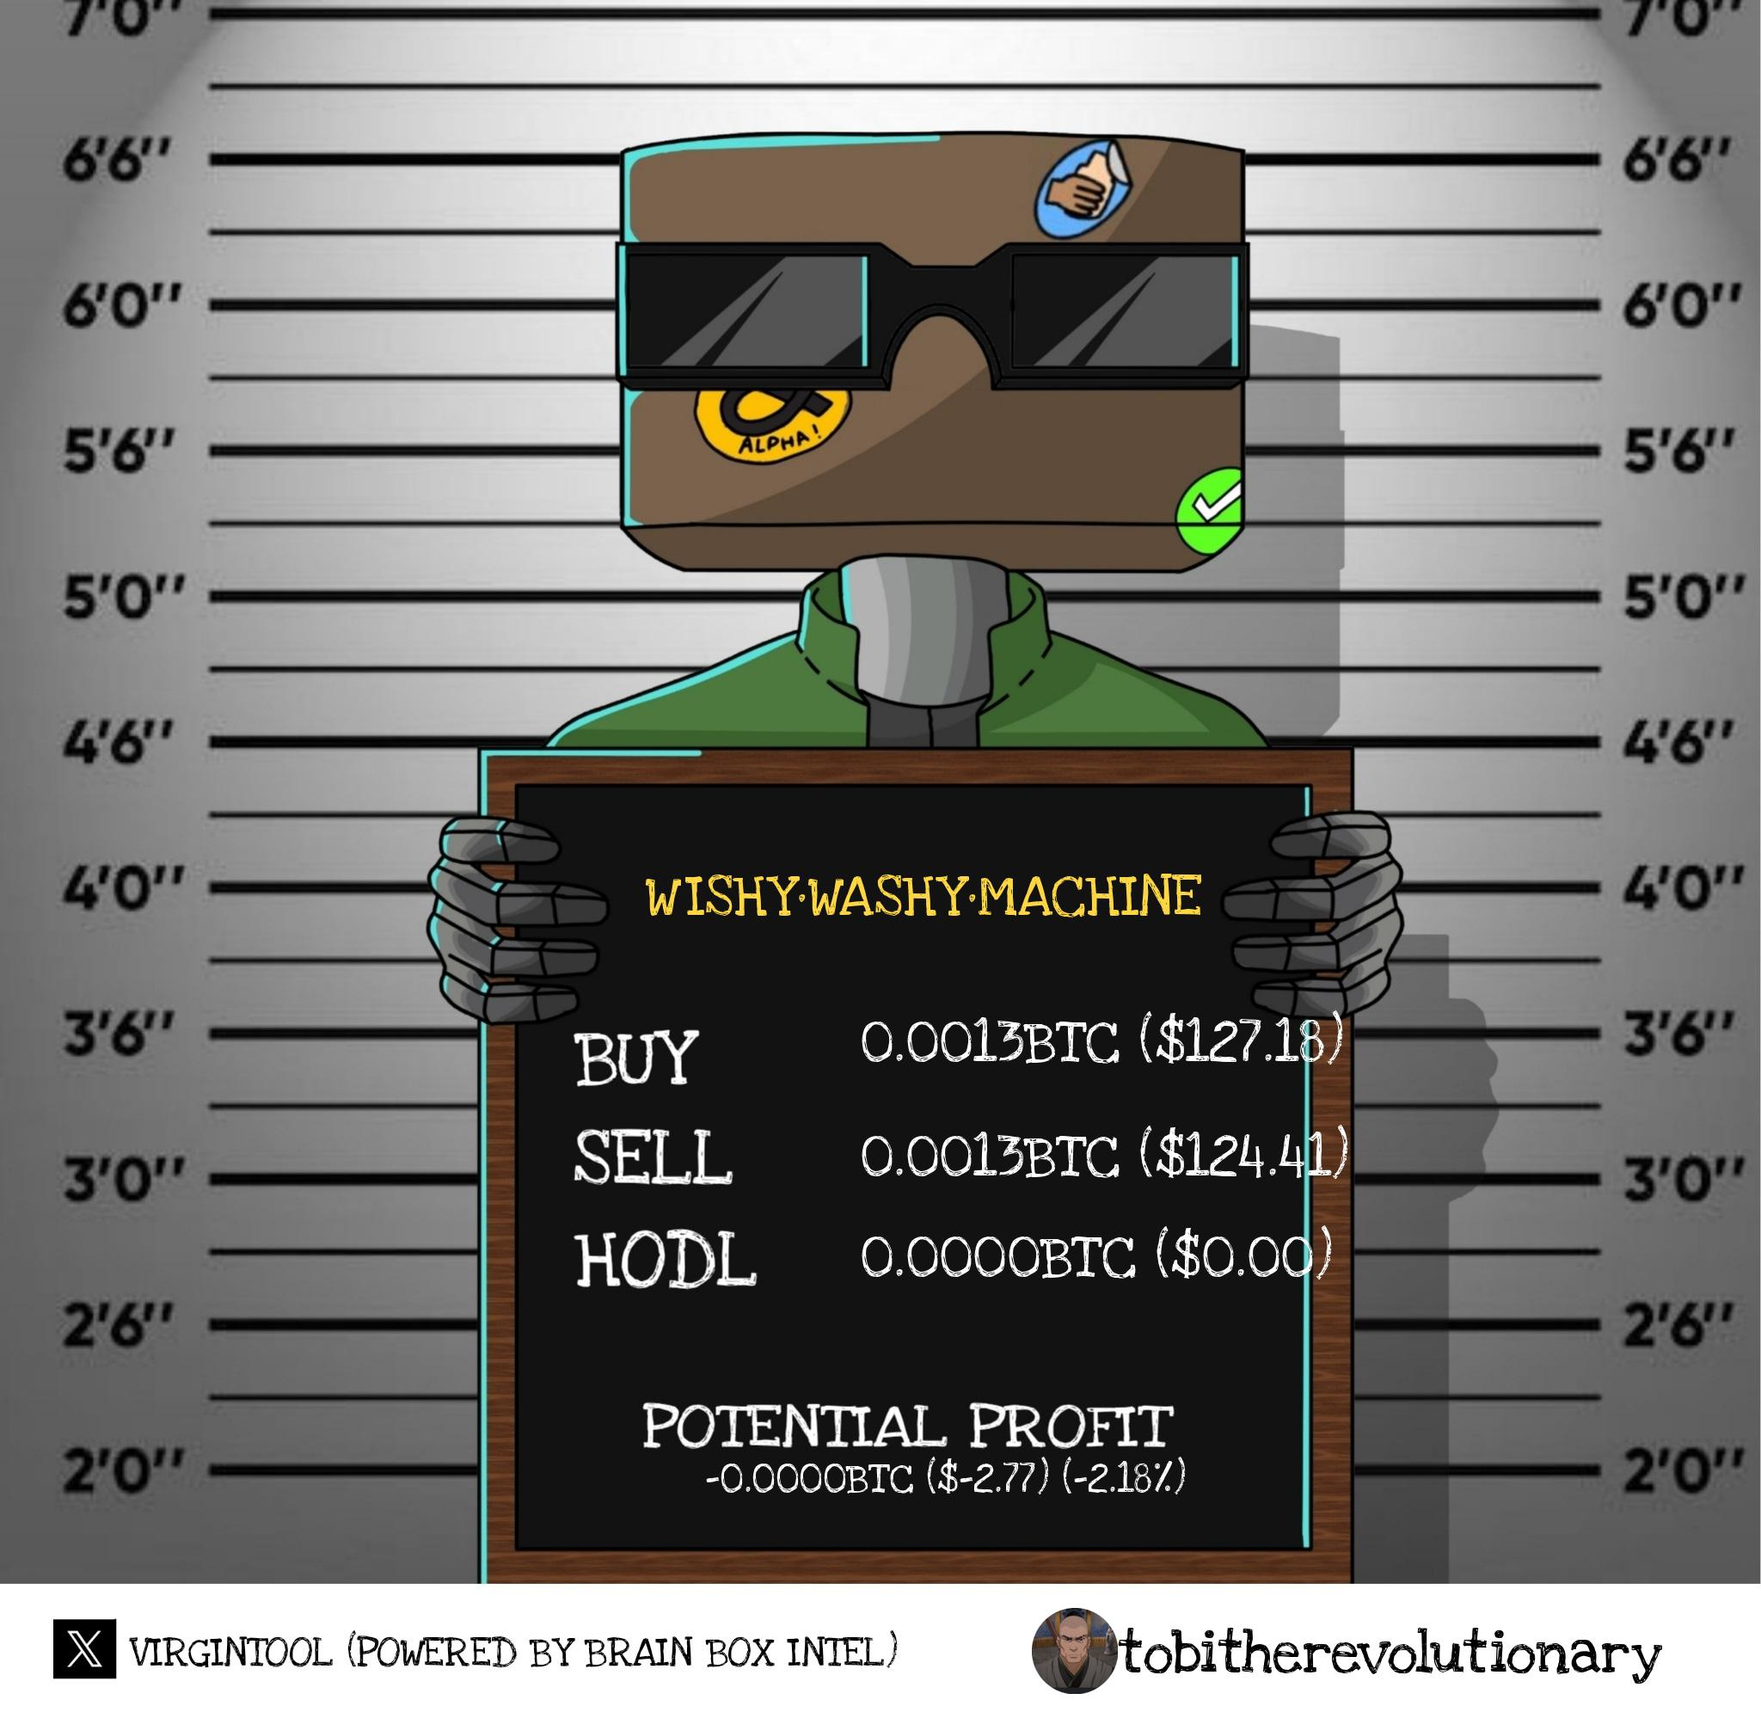
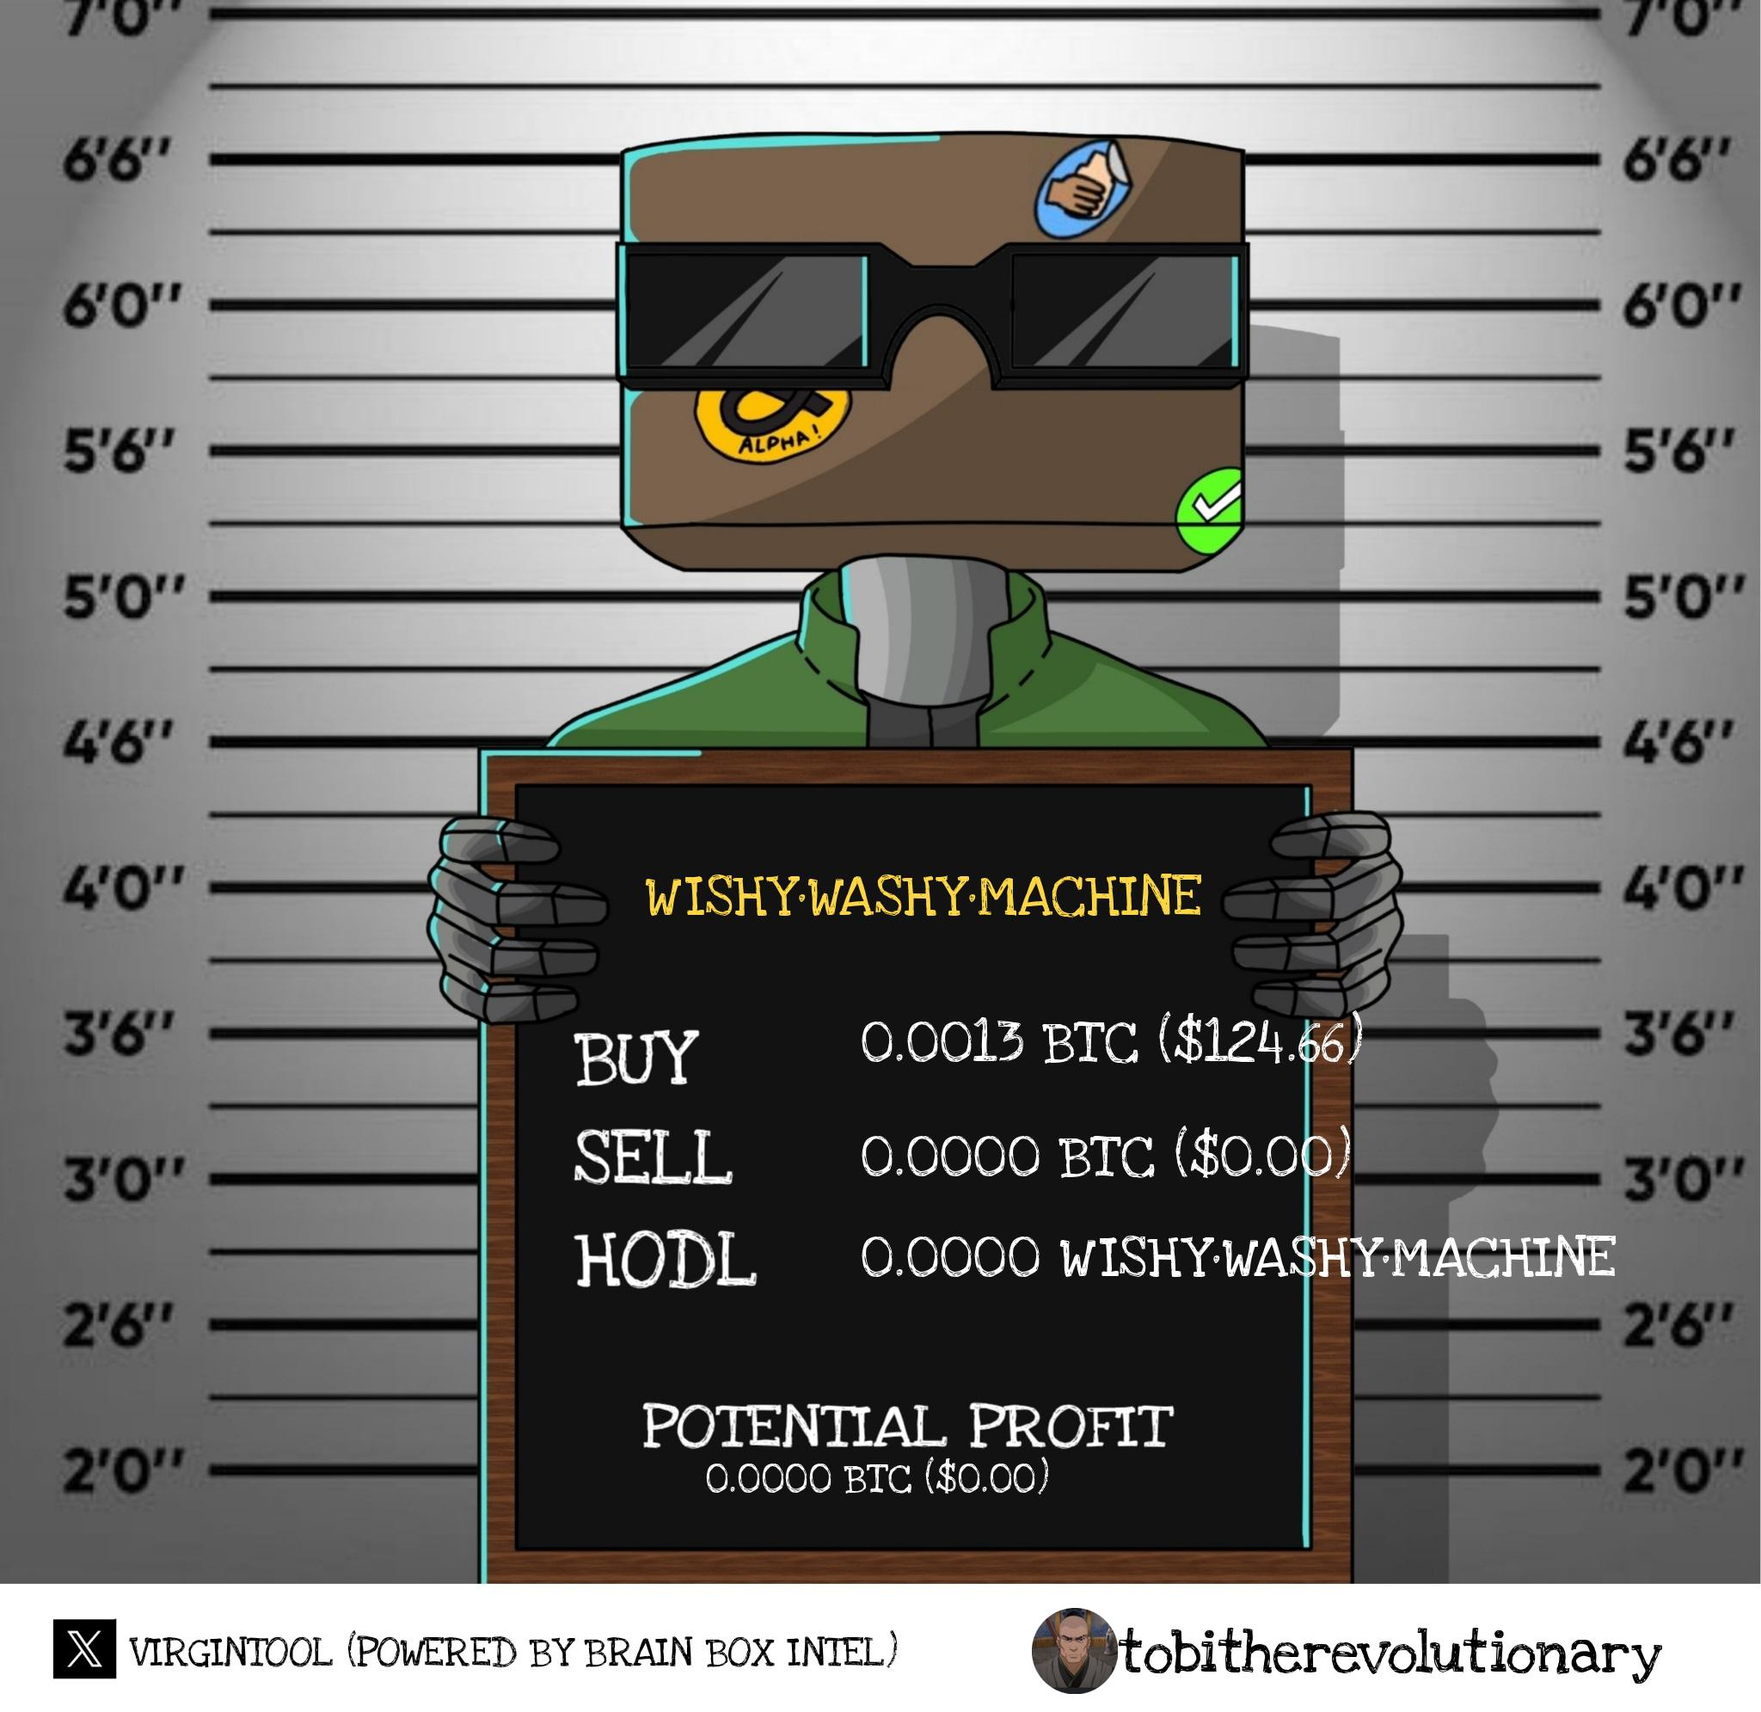
feat: finished rune PnL

diff --git a/bot.py b/bot.py
@@ -1846,43 +1846,35 @@ async def viewwallets(
 async def profit(
     ctx: discord.ApplicationContext,
     asset_type: Option(str, "Select asset type", choices=["rune"]),  # type: ignore
-    asset_slug: Option(
-        str, "Enter the asset slug (rune name or ordinal collection symbol)"
-    ),  # type: ignore
+    asset_slug: Option(str, "Enter the asset slug (rune name or ordinal collection symbol)"),  # type: ignore
 ):
     """
     Slash command to calculate total PnL and holdings for a given asset.
 
-    Key points:
-      - We use `listedPrice` for the cost in sats (converted to BTC).
-      - `amount` is the quantity of the asset.
-      - We classify SELL if:
-         * kind in ["buying_broadcasted", "buy_broadcasted", "sent"]  (example set)
-         * oldOwner == wallet
-         * newOwner != wallet
-      - We classify BUY if:
-         * kind in ["buying_broadcasted", "buy_broadcasted"]
-         * newOwner == wallet
+    Key difference: We now only show the holding’s value in BTC & USD, 
+    not the leftover quantity of the asset itself.
     """
     await ctx.defer()
 
-    # Example token (remove/replace if not needed)
+    # -------------------------------------------------------------------------
+    # 1) Setup
+    # -------------------------------------------------------------------------
     headers = {
         "Accept": "application/json",
         "Authorization": "Bearer 4a02b503-2fdc-4cd3-a053-9d06e81f1c8e",
     }
 
-    # If it's a rune, remove "•" and uppercase it (but keep a 'spaced_rune' for display).
+    # Normalize the asset slug for runes
     if asset_type == "rune":
         spaced_rune = asset_slug
-        asset_slug = asset_slug.replace("•", "").upper()
+        clean_slug = asset_slug.replace("•", "").upper()
     else:
         spaced_rune = asset_slug
+        clean_slug = asset_slug.upper()
 
     guild_id = str(ctx.guild.id)
     user_id = str(ctx.author.id)
 
-    # Overlay config (update to match your environment)
     overlay = get_server_overlay(guild_id)
     image_path = overlay.get("image_path", "./blank.jpg")
     font_path = overlay.get("font_path", "./LoveYaLikeASister.ttf")
@@ -1897,33 +1889,33 @@ async def profit(
         or user_id not in wallets[guild_id]
         or not wallets[guild_id][user_id]
     ):
-        await ctx.respond("You have not added any wallets to calculate profits.", ephemeral=True)
+        await ctx.respond(
+            "You have not added any wallets to calculate profits.", ephemeral=True
+        )
         return
 
     user_wallets = wallets[guild_id][user_id]
 
     # -------------------------------------------------------------------------
-    # Initialize counters (for both quantity and price)
+    # 2) Calculate total buys & sells (with pagination up to offset=10,000)
     # -------------------------------------------------------------------------
     total_bought_sats = 0
     total_sold_sats = 0
     total_quantity_bought = 0.0
     total_quantity_sold = 0.0
 
-    # Optional: track how many times we buy or sell
     buy_transaction_count = 0
     sell_transaction_count = 0
 
-    # Define which `kind` values qualify as "SELL" for your logic
     SELL_KINDS = ["buying_broadcasted", "buy_broadcasted"]
     BUY_KINDS = ["buying_broadcasted", "buy_broadcasted"]
 
     async with httpx.AsyncClient() as client:
-        # 1) Fetch current floor price for the asset
+        # 2a) Fetch current floor price in sats
         if asset_type == "rune":
-            price_url = f"https://api-mainnet.magiceden.dev/v2/ord/btc/runes/market/{asset_slug}/info"
+            price_url = f"https://api-mainnet.magiceden.dev/v2/ord/btc/runes/market/{clean_slug}/info"
         else:
-            price_url = f"https://api-mainnet.magiceden.dev/v2/ord/btc/stat?collectionSymbol={asset_slug}"
+            price_url = f"https://api-mainnet.magiceden.dev/v2/ord/btc/stat?collectionSymbol={clean_slug}"
 
         price_response = await client.get(price_url, headers=headers)
         if price_response.status_code != 200:
@@ -1932,126 +1924,119 @@ async def profit(
             )
             return
 
-        try:
-            price_data = price_response.json()
-        except json.decoder.JSONDecodeError:
-            await ctx.respond(
-                f"Failed to parse JSON for price data. Response snippet: {price_response.text[:200]}"
-            )
-            return
+        price_data = price_response.json()
 
-        # 2) Extract floor price in sats
         if asset_type == "rune":
-            if (
-                "floorUnitPrice" not in price_data
-                or "formatted" not in price_data["floorUnitPrice"]
-            ):
-                await ctx.respond(f"No valid floor price data found for rune: {asset_slug}.")
+            # e.g. price_data["floorUnitPrice"]["formatted"]
+            if "floorUnitPrice" not in price_data or "formatted" not in price_data["floorUnitPrice"]:
+                await ctx.respond(f"No valid floor price data found for rune: {clean_slug}.")
                 return
             current_price_sats = float(price_data["floorUnitPrice"]["formatted"])
         else:
+            # e.g. price_data["floorPrice"]
             if "floorPrice" not in price_data:
-                await ctx.respond(f"No valid floor price data found for: {asset_slug}.")
+                await ctx.respond(f"No valid floor price data found for: {clean_slug}.")
                 return
             current_price_sats = float(price_data["floorPrice"])
 
-        # Convert the floor price sats → BTC
         current_price_btc = current_price_sats / 1e8
 
-        # ---------------------------------------------------------------------
-        # For each wallet, gather transaction data
-        # ---------------------------------------------------------------------
+        # 2b) For each wallet, gather buy/sell from the wallet activities (paginated)
         for wallet in user_wallets:
             wallet_address = wallet["address"]
-            tx_url = (
-                f"https://api-mainnet.magiceden.dev/v2/ord/btc/runes/wallet/activities/{wallet_address}?offset=0"
-            )
 
-            tx_response = await client.get(tx_url, headers=headers)
-            if tx_response.status_code != 200:
-                await ctx.respond("Failed to fetch asset data.")
-                return
+            offset = 0
+            step = 100
+            max_offset = 10000
 
-            data = tx_response.json()
-            if not isinstance(data, list):
-                # We expect 'data' to be a list
-                continue
-
-            for item in data:
-                # Must match the desired asset
-                if item.get("rune", "").upper() != asset_slug:
-                    continue
-
-                transaction_kind = item.get("kind", "").lower()
-                old_owner = item.get("oldOwner", "")
-                new_owner = item.get("newOwner", "")
-
-                # The quantity of the asset
-                quantity = float(item.get("amount", 1.0))
-
-                # The cost in sats: "listedPrice"
-                price_sats = float(item.get("listedPrice", 0))
-                if price_sats <= 0:
-                    continue  # skip invalid price
-
-                # ------------------------------------------------------------
-                # BUY condition
-                # ------------------------------------------------------------
-                is_buy = (
-                    transaction_kind in BUY_KINDS
-                    and new_owner == wallet_address
+            while offset <= max_offset:
+                tx_url = (
+                    f"https://api-mainnet.magiceden.dev/v2/ord/btc/runes/wallet/activities/"
+                    f"{wallet_address}?offset={offset}"
                 )
-                if is_buy:
-                    buy_transaction_count += 1
-                    total_quantity_bought += quantity
-                    total_bought_sats += price_sats
-                    continue
+                tx_response = await client.get(tx_url, headers=headers)
+                if tx_response.status_code != 200:
+                    # Skip this wallet if there's an error
+                    break
 
-                # ------------------------------------------------------------
-                # SELL condition
-                #   includes checking transaction_kind in SELL_KINDS
-                #   oldOwner == wallet_address, newOwner != wallet_address
-                # ------------------------------------------------------------
-                is_sell = (
-                    transaction_kind in SELL_KINDS
-                    and old_owner == wallet_address
-                    and new_owner != wallet_address
-                )
-                if is_sell:
-                    sell_transaction_count += 1
-                    total_quantity_sold += quantity
-                    total_sold_sats += price_sats
-                    continue
+                data = tx_response.json()
+                if not isinstance(data, list) or len(data) == 0:
+                    # Break out of pagination if no more data
+                    break
 
-                # Otherwise ignore
+                # Process all records on this page
+                for item in data:
+                    # Ensure the correct rune/slug
+                    if item.get("rune", "").replace("•", "").upper() != clean_slug:
+                        continue
 
-    # -------------------------------------------------------------------------
-    # Convert total sats → BTC
-    # -------------------------------------------------------------------------
+                    transaction_kind = item.get("kind", "").lower()
+                    old_owner = item.get("oldOwner", "")
+                    new_owner = item.get("newOwner", "")
+                    quantity = float(item.get("amount", 1.0))
+                    price_sats = float(item.get("listedPrice", 0))
+                    if price_sats <= 0:
+                        continue
+
+                    # BUY
+                    if transaction_kind in BUY_KINDS and new_owner == wallet_address:
+                        buy_transaction_count += 1
+                        total_quantity_bought += quantity
+                        total_bought_sats += price_sats
+
+                    # SELL
+                    elif (
+                        transaction_kind in SELL_KINDS
+                        and old_owner == wallet_address
+                        and new_owner != wallet_address
+                    ):
+                        sell_transaction_count += 1
+                        total_quantity_sold += quantity
+                        total_sold_sats += price_sats
+
+                offset += step  # move to next page
+
+    # Convert to BTC
     total_bought_btc = total_bought_sats / 1e8
     total_sold_btc = total_sold_sats / 1e8
 
-    # Calculate how many of the asset you hold
-    holding_quantity = (total_quantity_bought - total_quantity_sold) / 100_000_000
-    if holding_quantity < 0:
-        holding_quantity = 0
+    # -------------------------------------------------------------------------
+    # 3) Fetch leftover holdings from “balances” endpoint
+    # -------------------------------------------------------------------------
+    leftover_units = 0.0
 
-    # Current holding value (in BTC and USD)
+    async with httpx.AsyncClient() as client:
+        for wallet in user_wallets:
+            wallet_address = wallet["address"]
+            balances_url = (
+                f"https://api-mainnet.magiceden.dev/v2/ord/btc/runes/wallet/balances/"
+                f"{wallet_address}/{clean_slug}"
+            )
+            balances_resp = await client.get(balances_url, headers=headers)
+            if balances_resp.status_code != 200:
+                continue
+
+            balances_data = balances_resp.json()
+            leftover_units += float(balances_data.get("formattedBalance", 0.0))
+
+    # leftover_units is total rune quantity
+    holding_quantity = leftover_units
+
+    # Convert leftover quantity to BTC & USD by floor price
     holding_btc = holding_quantity * current_price_btc
     holding_usd = holding_btc * get_btc_price_usd()
 
     # -------------------------------------------------------------------------
-    # PnL Calculations
+    # 4) PnL Calculations
     # -------------------------------------------------------------------------
-    # Avoid dividing by zero
-    total_bought_btc = max(total_bought_btc, 1e-12)
+    total_bought_btc = max(total_bought_btc, 1e-12)  # prevent div-by-zero
 
     if total_quantity_sold == 0:
         # Entire PnL is unrealized
         pnl_btc = holding_btc - total_bought_btc
     else:
         if total_quantity_bought == 0:
-            # Edge case: sold something without buying
+            # Edge case: sold something w/o recorded buys
             realized_pnl_btc = 0.0
             unrealized_pnl_btc = holding_btc
         else:
@@ -2065,23 +2050,33 @@ async def profit(
             )
         pnl_btc = realized_pnl_btc + unrealized_pnl_btc
 
-    pnl_usd = pnl_btc * get_btc_price_usd()
-    pnl_percentage = (pnl_btc / total_bought_btc) * 100
+    # pnl_usd = pnl_btc * get_btc_price_usd()
+    pnl_percentage = (holding_btc / total_bought_btc) * 100
 
     # -------------------------------------------------------------------------
-    # Prepare overlay text
+    # 5) Prepare overlay text
+    #    - Removed the line showing leftover_units; 
+    #      now we only show the BTC/$ worth for holdings.
     # -------------------------------------------------------------------------
-    text_keys = ["asset_name", "total_bought", "total_sold", "holdings", "pnl"]
+    text_keys = [
+        "asset_name",
+        "total_bought",
+        "total_sold",
+        "holdings (value)",  # Show only BTC & USD
+        "pnl",
+    ]
     text_values = [
-        f"{spaced_rune}" if asset_type == "rune" else asset_slug,
+        f"{spaced_rune}",  # e.g. "KINGS•RUNE"
         f"{total_bought_btc:.4f} (${total_bought_btc * get_btc_price_usd():.2f})",
         f"{total_sold_btc:.4f} (${total_sold_btc * get_btc_price_usd():.2f})",
         f"{holding_btc:.4f} (${holding_usd:.2f})",
-        f"{pnl_btc:.4f} (${pnl_usd:.2f}) ({pnl_percentage:.2f}%)",
+        f"{holding_btc:.4f} (${holding_usd:.2f}) ({pnl_percentage:.2f}%)",
     ]
 
+    # Map text_keys/values onto the overlay coordinates
     texts_with_coordinates = []
     for i, text_key in enumerate(text_keys):
+        # Ensure we have a coordinate config for each item
         if i < len(text_coordinates):
             coord_cfg = text_coordinates[i]
             texts_with_coordinates.append({
@@ -2091,7 +2086,7 @@ async def profit(
                 "font_size": coord_cfg["font_size"],
             })
 
-    # Generate overlay
+    # Generate the final overlay image
     output_path = f"./output/profit_overlay_{guild_id}.jpg"
     os.makedirs(os.path.dirname(output_path), exist_ok=True)
 
@@ -2107,24 +2102,13 @@ async def profit(
         avatar_size=tuple(avatar_size),
     )
 
-    summary = (
-        f"**Buy transactions:** {buy_transaction_count}\n"
-        f"**Sell transactions:** {sell_transaction_count}\n"
-    )
-    await ctx.send(content=summary)
-
-    # Send image
+    # Send or respond with the overlay
     if os.path.exists(output_path):
         with open(output_path, "rb") as file:
             await ctx.respond(file=discord.File(file, os.path.basename(output_path)))
         os.remove(output_path)
     else:
         await ctx.respond("Failed to generate the overlay image.")
-        return
-
-    # Finally, show buy/sell transaction counts (optional).
-
-    
 
 """
 USER WALLET LOGIC FOR PnL - END

diff --git a/rune.py b/rune.py
@@ -1,0 +1,9 @@
+import requests
+
+url = "https://api-mainnet.magiceden.dev/v2/ord/btc/runes/wallet/activities/bc1p5a8vd6c50hcx9qfpwhzzqqm7lhzae4krddqjutz6zftu2jf0p0sqne3tyd?offset=600"
+
+headers = {"accept": "application/json", "Authorization" : "Bearer 4a02b503-2fdc-4cd3-a053-9d06e81f1c8e"}
+
+response = requests.get(url, headers=headers)
+
+print(response.text)
